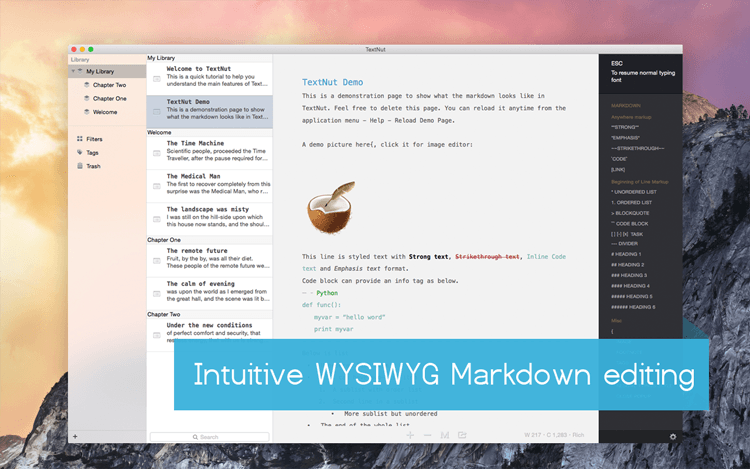
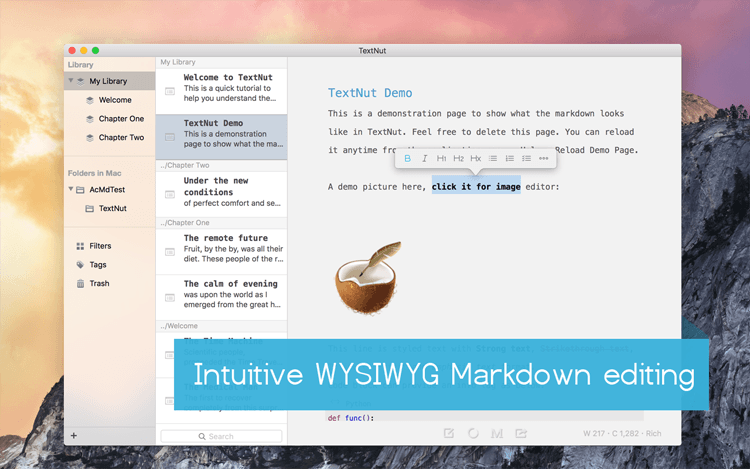
new home page with screenshots

Changed region(s): [[0.0613, 0.0896, 0.92, 0.9552], [0.3987, 0.5075, 0.7667, 0.7164]]

diff --git a/index.html b/index.html
@@ -59,7 +59,7 @@ layout: home
                <div class="col-md-4">
                     <h3 class="feature-title">Themes</h3>
                     <div class="screenshot-text">
-                        TextNut provides 6 default beautiful themes. You also can create your own themes easily.
+                        Six beautiful themes are provided by default. You can create your own themes easily. There is a frameless Zen mode to let you fully concentrate on your writing.
                     </div>
                </div>
             </div>
@@ -67,7 +67,7 @@ layout: home
                <div class="col-md-4">
                     <h3 class="feature-title">Easy document management</h3>
                     <div class="screenshot-text">
-                        Create <code>Library</code> to hold different types of documents. Drag and drop document between libraries. Add tags to organise your documents. All your documents are automatically saved as you work.
+                        Create <code>Library</code> to hold documents or <code>Link Existed Folder</code> in your Mac. Drag and drop document between libraries. Add tags to organise your documents. All your documents are automatically saved as you work.
                     </div>
                </div>
                <div class="col-md-8">
@@ -87,9 +87,9 @@ layout: home
             </div>
              <div class="row">
               <div class="col-md-4">
-                    <h3 class="feature-title">Contextual help</h3>
+                    <h3 class="feature-title">Language Syntax Highlighting</h3>
                     <div class="screenshot-text">
-                        TextNut features an intuitive help system that displays dynamic help tips when you need them. The help panel is clickable to apply formatting easily.
+                        TextNut supports most major language syntax highlighting. Just enclosing source code into fenced or indent code block, either declaring the language name, i.e. <code>Python</code>, <code>Java</code>, <code>XML</code>  etc, or let TextNut automatically detecting the language type.
                     </div>
                </div>
                <div class="col-md-8">

diff --git a/blogs.md b/blogs.md
@@ -12,7 +12,6 @@ weight: 10
     {% for post in site.posts %}
       <li>
         <span class="post-meta">{{ post.date | date: "%b %-d, %Y" }}</span>
-
         <h2>
           <a class="post-link" href="{{ post.url | prepend: site.baseurl }}">{{ post.title }}</a>
         </h2>

diff --git a/terms.md b/terms.md
@@ -98,4 +98,3 @@ weight: 30
     General Terms and Conditions applicable to Use of a Web Site.
 </p>
             
-
